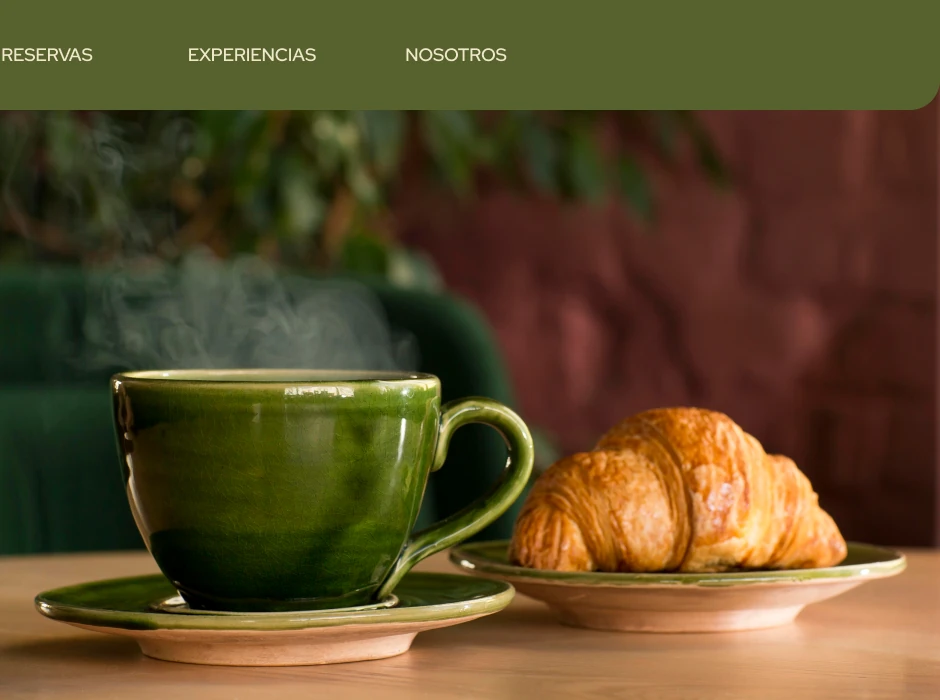
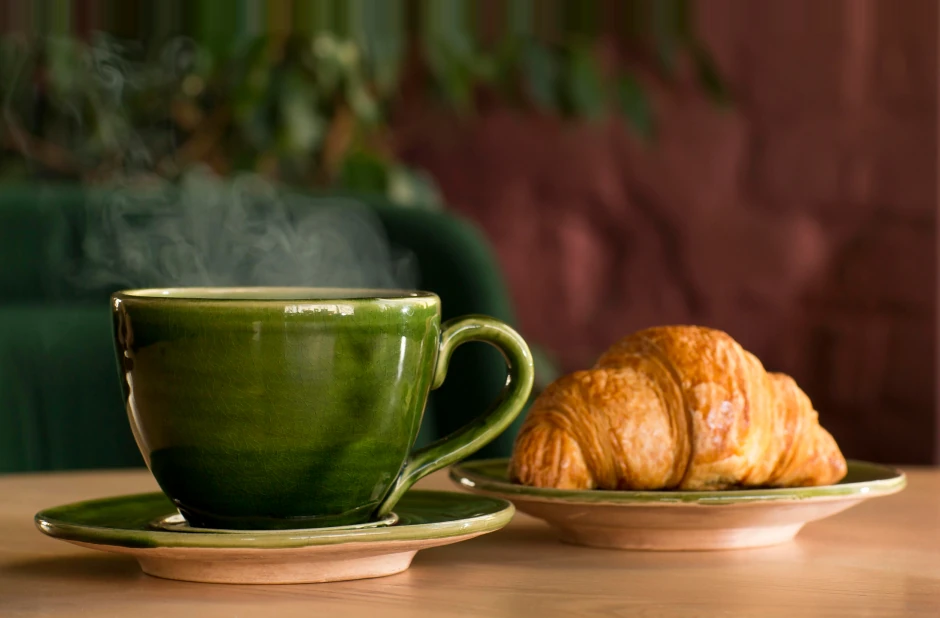
Héroes partidos: la foto se recorta sin la barra de la maqueta para que no asome en tablet
Claude-Session: https://claude.ai/code/session_019MJeHEjYPNVkLzQPteRJ1V

diff --git a/src/components/ui/HeroSplit.tsx b/src/components/ui/HeroSplit.tsx
@@ -14,6 +14,7 @@ type Props = {
 /**
  * Héroe de Nuestro espacio y Reservas: texto a la izquierda y foto a sangre por la derecha
  * (940 x 700 desde y 0, por debajo de la barra, con radio 30 a la izquierda).
+ * El recorte empieza en y 82: lo de arriba queda siempre tapado por la barra.
  */
 export function HeroSplit({ titulo, texto, boton, foto, oscuro }: Props) {
   return (
@@ -26,9 +27,9 @@ export function HeroSplit({ titulo, texto, boton, foto, oscuro }: Props) {
           <img
             src={photo(foto.src)}
             alt={foto.alt}
-            className="absolute inset-0 h-full w-full object-cover object-left"
+            className="absolute inset-0 h-full w-full object-cover object-left dk:inset-auto dk:left-0 dk:uy-82 dk:uh-618"
             width={940}
-            height={700}
+            height={618}
             fetchPriority="high"
           />
         </Fade>
